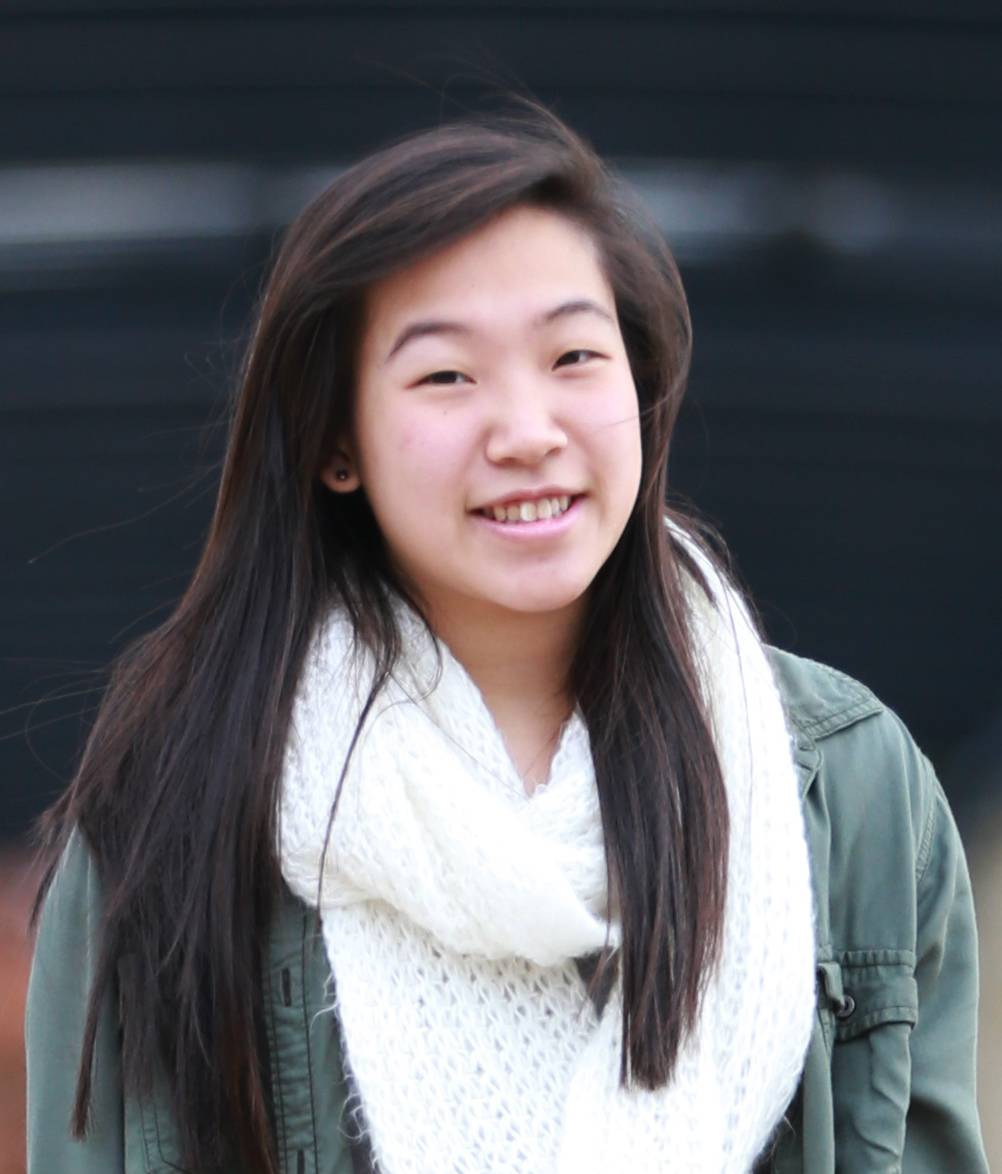
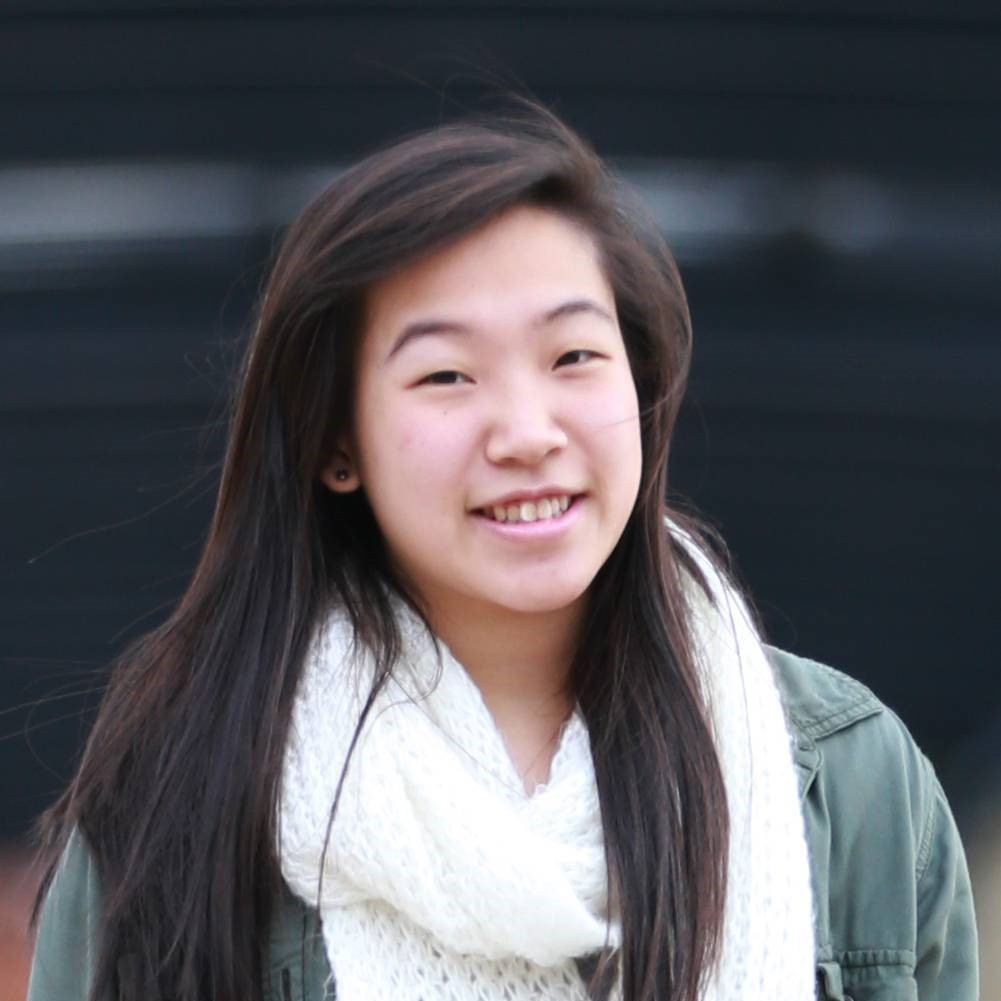
Fixed images, changed alignment of profiles to flex-start.

diff --git a/index.html b/index.html
@@ -150,10 +150,10 @@
    </section>
    <section id="team-4" class="section turquoise-white" sitemeta="[object Object]" activepage="Landing">
       <div class="container text-center mb35"></div>
-      <div class="container flex wrap text-center">
-         <div class="col-6 mt40 flex">
+      <div class="profile container flex wrap text-center">
+         <div class="profile col-4 mt40 flex">
             <div class="team-card flex flex-column center-vertical center-horizontal w100">
-               <div class="user-image mb20" style="background-image: url(&quot;images/ecba5316-aad2-4316-bf17-e9b183fe4d6d.png&quot;);"></div>
+               <img class="profile" src="images/ecba5316-aad2-4316-bf17-e9b183fe4d6d.png">
                <div>
                   <b class="bold primary-color">Evelyn Wong</b>
                   <p class="paragraph primary-color mt10">Designer</p>
@@ -161,12 +161,22 @@
                </div>
             </div>
          </div>
-         <div class="col-6 mt40 flex">
+         <div class="profile col-4 mt40 flex">
             <div class="team-card flex flex-column center-vertical center-horizontal w100">
-               <div class="user-image mb20" style="background-image: url(&quot;images/f09e96cf-fb86-4ae2-abc9-5fbbcd811259.png&quot;);"></div>
+               <img class="profile" src="images/f09e96cf-fb86-4ae2-abc9-5fbbcd811259.png">
                <div>
                   <b class="bold primary-color">Pablo Peillard</b>
                   <p class="paragraph primary-color mt10">Developer</p>
+                  <p class="paragraph secondary-color mt20"></p>
+               </div>
+            </div>
+         </div>
+         <div class="profile col-4 mt40 flex">
+            <div class="team-card flex flex-column center-vertical center-horizontal w100">
+               <img class="profile" src="images/thomas.jpg">
+               <div>
+                  <b class="bold primary-color">Thomas Hobohm</b>
+                  <p class="paragraph primary-color mt10">Designer</p>
                   <p class="paragraph secondary-color mt20"></p>
                </div>
             </div>

diff --git a/css/index.css b/css/index.css
@@ -276,3 +276,12 @@ left: -40px;
   opacity: 1;
   border-bottom: 1px dashed;
 }
+
+img.profile {
+  border-radius: 100%;
+  margin-bottom: 20px;
+}
+
+.profile.container {
+  align-items: flex-start;
+}
